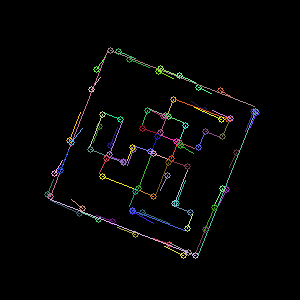
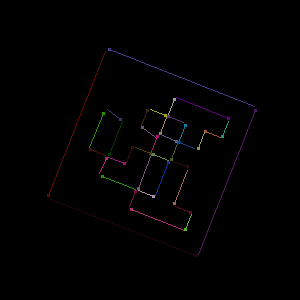
lesson18 finally done

diff --git a/lesson20/src/main.cpp b/lesson20/src/main.cpp
@@ -48,8 +48,8 @@ void run(std::string caseName) {
     // 2) Свертка оператором Собеля (чтобы построить градиент в каждом пикселе) +
     // 3) Строим граф на базе всех всех пикселей +
     // 4) Сортируем ребра - разница в направлении градиентов смежных пикселей +
-    // 5) Проходя по ребрам по возрастанию - объединяем смежные компоненты если у них похожи диапазоны направлений и сил градиентов
-    // 6) Каждая компонента связности - отрезок
+    // 5) Проходя по ребрам по возрастанию - объединяем смежные компоненты если у них похожи диапазоны направлений и сил градиентов +
+    // 6) Каждая компонента связности - отрезок +
     // 7) Перебором пытаемся объединить эти отрезки в четырехугольник
 
     cv::Mat img = original.clone();
@@ -170,15 +170,13 @@ void run(std::string caseName) {
         GradientsCluster clusterA = clusters[clusterIndexA];
         GradientsCluster clusterB = clusters[clusterIndexB];
         GradientsCluster clusterSum = clusterA.plus(clusterB);
-        /* TODO реализуйте здесь объединение двух кластеров - посмотрите, может у класса GradientsCluster есть подходящий для этого метод? */
 
-        /* TODO реализуйте здесь формулы проверяющие можно ли объединить эти два кластера, т.е. можно ли использовать этот объединенный кластер */
-        bool directionOk = true;
-        bool magnitudeOk = true;
+        bool directionOk = clusterSum.rangeD()<(MIN_ALLOWED_DIRECTION_RANGE+KD/clusterSum.nPoints);
+        bool magnitudeOk = clusterSum.rangeM()<(MIN_ALLOWED_MAGNITUDE_RANGE+KM/clusterSum.nPoints);
         if (directionOk && magnitudeOk) {
             int unionIndex = disjoint_set.union_sets(clusterIndexA, clusterIndexB);
             rassert(unionIndex == clusterIndexA || unionIndex == clusterIndexB, 3847239700149);
-            /* clusters[unionIndex] = ...; */
+            clusters[unionIndex] = clusterSum;
         }
     }
     std::cout << "done in " << t.elapsed() << " s" << std::endl;
@@ -219,18 +217,17 @@ void run(std::string caseName) {
         int j = pixel.y;
 
         int clusterIndex = disjoint_set.get_set(vertex); // определили в каком кластере состоит этот пиксель
-
         if (clusters_colors.count(clusterIndex) == 0) { // если цвет для этого кластера еще не назначен
             if (clusters[clusterIndex].fromM == DISABLED_PIXELS_MAGNITUDE && clusters[clusterIndex].toM == DISABLED_PIXELS_MAGNITUDE) {
                 clusters_colors[clusterIndex] = cv::Vec3b(0, 0, 0); // если этот кластер состоит только из выключенных пикселей - пусть будет черным
             } else {
-                /* TODO визуализируйте все компоненты связности, если этот clusterIndex мы видим впервые - назначьте ему случайный цвет */
+                clusters_colors[clusterIndex] = cv::Vec3b(randomColorsGenerator.next(0, 180), randomColorsGenerator.next(0, 180), randomColorsGenerator.next(0, 180));
             }
             rassert(clusters_pixels.count(clusterIndex) == 0, 23847293473200227); // проверяем что раз цвет кластеру неназначен, то и пикселей у этого кластера пока не добавлено
             clusters_pixels[clusterIndex] = std::vector<cv::Point2i>();
         }
-        /* TODO используйте ранее назначенный этому кластеру цвет и покрасьте пиксель в этот цвет */
-        /* TODO а так же добавьте текущий пиксель в перечень пикселей данного кластера */
+        clustersVisualization.at<Vec3b>(j, i) = clusters_colors[clusterIndex];
+        clusters_pixels[clusterIndex].push_back(pixel);
     }
     cv::imwrite(resultsDir + "08clusters.png", clustersVisualization);
 
@@ -260,8 +257,16 @@ void run(std::string caseName) {
         clusters_start[clusterIndex] = start;
         clusters_finish[clusterIndex] = finish;
         if (pixels.size() > CLUSTER_NPOINTS_THRESHOLD) {
-            /* TODO нарисуйте отрезки для каждого кластера - от стартовой к конечной точке с цветом этого кластера */
-            /* TODO нарисуйте кружочек вокруг конца этого кластера - с цветом этого кластера, чтобы было понятно его направление */
+            cv::line(segmentsVisualization, start, finish, clusters_colors[clusterIndex]);
+            int i = finish.x;
+            int j = finish.y;
+            for (int di = -1; di<=1; di++){
+                for (int dj = -1; dj<=1; dj++){
+                    if(i+di<img.cols && i+di>=0 && j+dj<img.rows && j+dj>=0){
+                        segmentsVisualization.at<Vec3b>(j+dj, i+di) = clusters_colors[clusterIndex];
+                    }
+                }
+            }
 
             goodClusters.push_back(clusterIndex);
             ++goodSegments;
@@ -289,13 +294,17 @@ void run(std::string caseName) {
             cv::Point2i p12 = clusters_finish[cluster1]; // теперь мы ищем продолжение вокруг этой точки
 
             for (int cluster2: goodClusters) { // перебираем третью сторону четырехугольника
-                /* TODO сделайте проверку подошел ли нам рассматриваемый третий кластер */
-
+                cv::Point2i p2 = clusters_start[cluster2];
+                cv::Point2i p23 = clusters_finish[cluster2];
+                if (distance2(p12, p2) > QUADS_CORNERS_DISTANCE_THRESHOLD2 || cluster1 == cluster2 || cluster0 == cluster2)
+                    continue;
                 for (int cluster3: goodClusters) {
-                    /* TODO сделайте проверку подошел ли нам рассматриваемый четвертый кластер */
-
-                    /* TODO не забудьте добавить финальную проверку - оказался ли замкнут наш четырехугольник? */
-
+                    cv::Point2i p3 = clusters_start[cluster3];
+                    cv::Point2i p30 = clusters_finish[cluster3];
+                    if (distance2(p23, p3) > QUADS_CORNERS_DISTANCE_THRESHOLD2 || cluster3 == cluster2 || cluster3 == cluster1 || cluster3 == cluster0)
+                        continue;
+                    if(distance2(p30, p0) > QUADS_CORNERS_DISTANCE_THRESHOLD2)
+                        continue;
                     {
                         // если все хорошо - добавляем четверку кластеров в печеречень четырехугольников
                         std::vector<int> clusters_ids = {cluster0, cluster1, cluster2, cluster3};
@@ -305,12 +314,21 @@ void run(std::string caseName) {
             }
         }
     }
-    rassert(quadsClusters.size() % 4 == 0, 3472394328323); /* TODO почему это всегда верно? какие четырехугольники надо удалить а какие оставить? как это сделать? */
+
     std::cout << quadsClusters.size() << " quads found" << std::endl;
+    rassert(quadsClusters.size() % 4 == 0, 3472394328323);
     cv::Mat quadsVisualization = cv::Mat(img.rows, img.cols, CV_8UC3, cv::Scalar(0, 0, 0));
     for (int i = 0; i < quadsClusters.size(); ++i) {
-        /* TODO добавьте визуализацию, отрисуйте каждый четырехугольник - прочертив 4 отрезка - по его сторонам, и 4 отрезка - между концами и началами последовательных сторон */
-        /* TODO цветом четырехугольника пусть берется из цвета первого кластера который в этом четырехугольнике участвует */
+        Vec3b color = clusters_colors[quadsClusters[i][0]];
+        line(quadsVisualization, clusters_start[quadsClusters[i][0]], clusters_finish[quadsClusters[i][0]], color);
+        line(quadsVisualization, clusters_start[quadsClusters[i][1]], clusters_finish[quadsClusters[i][1]], color);
+        line(quadsVisualization, clusters_start[quadsClusters[i][2]], clusters_finish[quadsClusters[i][2]], color);
+        line(quadsVisualization, clusters_start[quadsClusters[i][3]], clusters_finish[quadsClusters[i][3]], color);
+
+        line(quadsVisualization, clusters_finish[quadsClusters[i][0]], clusters_start[quadsClusters[i][1]], color);
+        line(quadsVisualization, clusters_finish[quadsClusters[i][1]], clusters_start[quadsClusters[i][2]], color);
+        line(quadsVisualization, clusters_finish[quadsClusters[i][2]], clusters_start[quadsClusters[i][3]], color);
+        line(quadsVisualization, clusters_finish[quadsClusters[i][3]], clusters_start[quadsClusters[i][0]], color);
     }
     cv::imwrite(resultsDir + "10quads.png", quadsVisualization);
     /* TODO посмотрите на результаты, какие есть идеи как уменьшить число ложных срабатываний? попробуйте это сделать */
@@ -333,7 +351,6 @@ int main() {
         int nthreads = omp_thread_count();
         std::cout << "CPU on this computer has " << nthreads << " virtual threads" << std::endl;
 
-        run("00");
         run("01");
         run("02");
         run("03");
